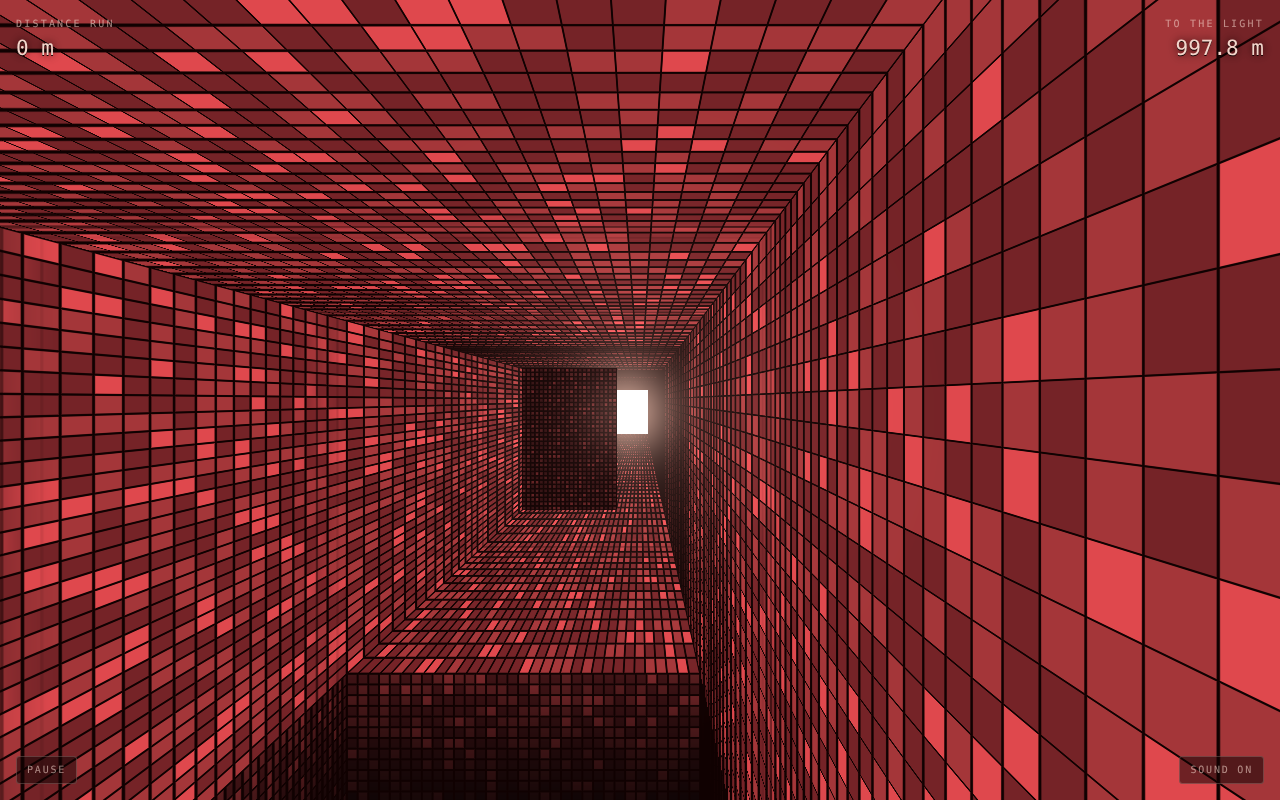
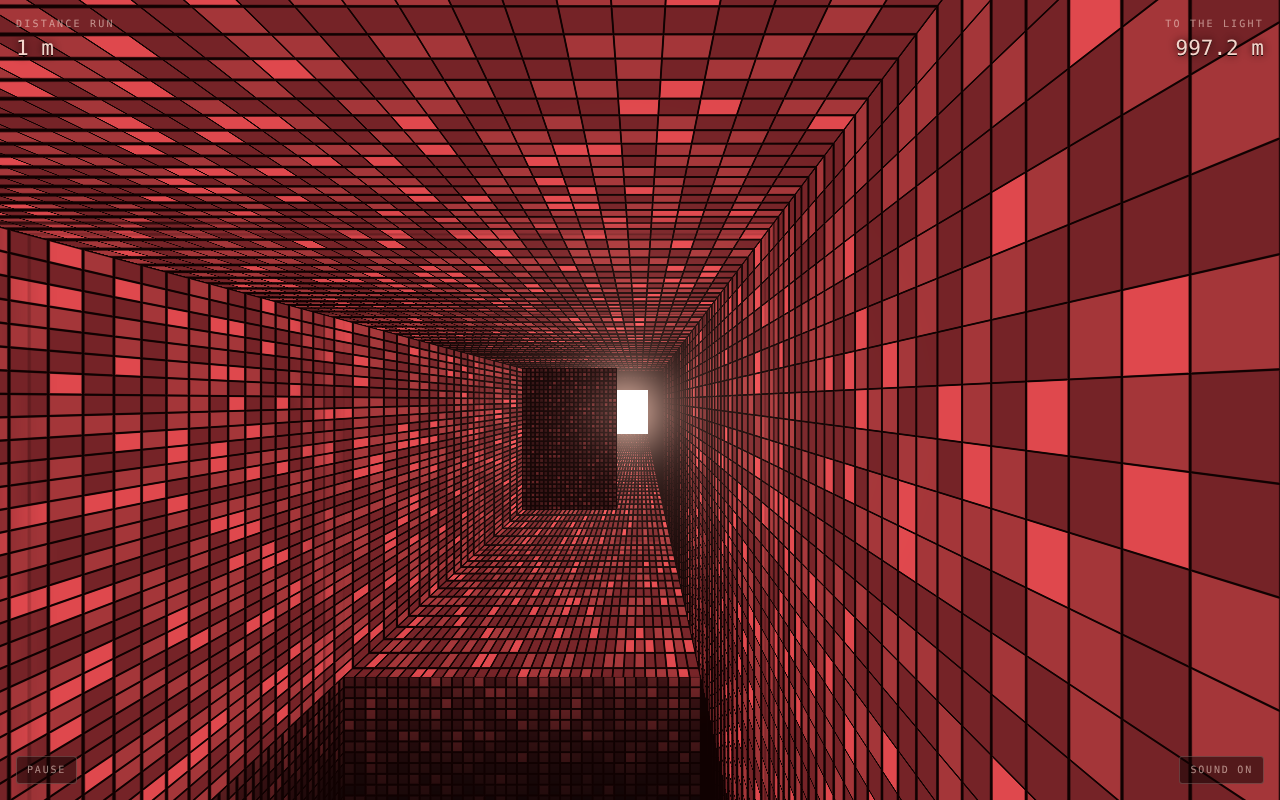
Rename hallway to tunnel and retake screenshots
Claude-Session: https://claude.ai/code/session_01AP4tcmm8V2hMLartLX3Nrv

diff --git a/src/hud.js b/src/hud.js
@@ -30,7 +30,7 @@ export function createHud(store) {
     over: $('over'), overHead: $('over-head'), overDist: $('over-dist'), overLight: $('over-light'), overBest: $('over-best'),
     paused: $('paused'), pauseBtn: $('pause'), snd: $('snd'), error: $('error'), errorMsg: $('error-msg'),
   };
-  let best = Number(store.get('nh-best')) || 0;
+  let best = Number(store.get('nt-best')) || 0;
   let milestone = 0;
   let timer = 0;
   let last = '';
@@ -73,7 +73,7 @@ export function createHud(store) {
     die() { el.pauseBtn.hidden = true; },
     over(kind, m) {
       const isBest = m > best;
-      if (isBest) { best = m; store.set('nh-best', String(Math.floor(m))); }
+      if (isBest) { best = m; store.set('nt-best', String(Math.floor(m))); }
       el.overHead.textContent = DEATH[kind] || 'you stopped';
       el.overDist.textContent = `${fmtM(m)} m`;
       el.overLight.textContent = `The light is still ${fmtLight(lightLeft(m))} m away.`;

diff --git a/src/gpu.js b/src/gpu.js
@@ -1,5 +1,5 @@
-// WebGPU setup: one full-screen triangle running src/shaders/hallway.wgsl.
-import shaderCode from './shaders/hallway.wgsl?raw';
+// WebGPU setup: one full-screen triangle running src/shaders/tunnel.wgsl.
+import shaderCode from './shaders/tunnel.wgsl?raw';
 
 // Matches struct Uniforms in the shader: 4 vec4 header + 8 pits + 16 + 16 boxes.
 export const UNIFORM_FLOATS = (4 + 8 + 16 + 16) * 4;
@@ -21,7 +21,7 @@ export async function createRenderer(canvas) {
   const module = device.createShaderModule({ code: shaderCode });
   const info = await module.getCompilationInfo();
   const errors = info.messages.filter(m => m.type === 'error');
-  if (errors.length) throw new Error(errors.map(m => `hallway.wgsl:${m.lineNum}: ${m.message}`).join('\n'));
+  if (errors.length) throw new Error(errors.map(m => `tunnel.wgsl:${m.lineNum}: ${m.message}`).join('\n'));
 
   const pipeline = device.createRenderPipeline({
     layout: 'auto',

diff --git a/index.html b/index.html
@@ -3,10 +3,10 @@
 <head>
 <meta charset="utf-8">
 <meta name="viewport" content="width=device-width, initial-scale=1, viewport-fit=cover">
-<title>Neverending Hallway</title>
+<title>Neverending Tunnel</title>
 </head>
 <body>
-<canvas id="hall" role="img" aria-label="First-person view down an endless square hallway lined with red tiles, with a light at the far end"></canvas>
+<canvas id="tunnel" role="img" aria-label="First-person view down an endless square tunnel lined with red tiles, with a light at the far end"></canvas>
 
 <div class="hud" id="hud" hidden>
   <div class="stat">
@@ -22,7 +22,7 @@
 <p class="whisper" id="whisper" aria-live="polite"></p>
 
 <section class="panel" id="title">
-  <h1>Neverending Hallway</h1>
+  <h1>Neverending Tunnel</h1>
   <p class="lede">There is a light at the end. Run to it.</p>
   <dl class="keys kb-only">
     <dt><kbd>Space</kbd> <kbd>↑</kbd></dt><dd>jump pits and low walls</dd>

diff --git a/src/sound.js b/src/sound.js
@@ -1,4 +1,4 @@
-// Synthesized sound: a low drone for the hallway and short effects.
+// Synthesized sound: a low drone for the tunnel and short effects.
 // Audio starts on the first key press or tap.
 const store = {
   get(k) { try { return localStorage.getItem(k); } catch { return null; } },
@@ -7,7 +7,7 @@ const store = {
 
 export const Sound = {
   ac: null, out: null, noise: null, droneF: null,
-  muted: store.get('nh-muted') === '1',
+  muted: store.get('nt-muted') === '1',
 
   init() {
     if (this.ac) { if (this.ac.state === 'suspended') this.ac.resume(); return; }
@@ -34,7 +34,7 @@ export const Sound = {
 
   setMuted(m) {
     this.muted = m;
-    store.set('nh-muted', m ? '1' : '0');
+    store.set('nt-muted', m ? '1' : '0');
     if (this.out) this.out.gain.setTargetAtTime(m ? 0 : 0.6, this.ac.currentTime, 0.05);
   },
 

diff --git a/src/styles.css b/src/styles.css
@@ -1,5 +1,5 @@
 :root {
-  /* Hallway palette from the original asset. */
+  /* Tunnel palette from the original asset. */
   --grout: #100101;
   --tile-dark: #752327;
   --tile-mid: #a43639;
@@ -25,7 +25,7 @@ body {
   user-select: none;
   -webkit-tap-highlight-color: transparent;
 }
-#hall { position: fixed; inset: 0; width: 100%; height: 100%; display: block; }
+#tunnel { position: fixed; inset: 0; width: 100%; height: 100%; display: block; }
 
 .hud {
   position: fixed;

diff --git a/src/main.js b/src/main.js
@@ -86,7 +86,7 @@ function pack(data, view, t) {
 }
 
 async function boot() {
-  const canvas = document.getElementById('hall');
+  const canvas = document.getElementById('tunnel');
   let renderer;
   try {
     renderer = await createRenderer(canvas);
@@ -111,4 +111,4 @@ async function boot() {
 boot();
 
 // Hook for automated checks.
-window.__hallway = game;
+window.__tunnel = game;

diff --git a/src/game.js b/src/game.js
@@ -1,5 +1,5 @@
 // Game state: running, jumping, sliding, lanes, obstacles and collisions.
-// Positions are in tunnel half-widths; s is distance down the hallway.
+// Positions are in tunnel half-widths; s is distance down the tunnel.
 import {
   RING, LIGHT_D, M_PER_UNIT, LANE_EDGES, LANE_X,
   AIR, GRAV, V0, DUCK, SLIDE_T, WALL_TOP, BEAM_BOTTOM,

diff --git a/src/constants.js b/src/constants.js
@@ -1,4 +1,4 @@
-// Shared numbers. Tile geometry matches the original hallway and src/shaders/hallway.wgsl.
+// Shared numbers. Tile geometry matches the original tunnel and src/shaders/tunnel.wgsl.
 
 export const N = 33;              // tiles per side
 export const RING = 0.056;        // ring depth in tunnel half-widths

diff --git a/README.md b/README.md
@@ -1,13 +1,13 @@
-# Neverending Hallway
+# Neverending Tunnel
 
-A first-person runner through the Neverending Hallway. Run for the light at the
+A first-person runner through the Neverending Tunnel. Run for the light at the
 end of the tunnel. You never reach it.
 
-The hallway is ray traced in a WebGPU fragment shader (`src/shaders/hallway.wgsl`)
+The tunnel is ray traced in a WebGPU fragment shader (`src/shaders/tunnel.wgsl`)
 using the original asset's tile hash, colours, 33-column corner warp, 24-ring
 repeat and 1.7px grout.
 
-![Title screen with the light at the end of the hallway](docs/screenshots/title.png)
+![Title screen with the light at the end of the tunnel](docs/screenshots/title.png)
 
 | | |
 |---|---|
@@ -35,7 +35,7 @@ Needs a browser with WebGPU (current Chrome, Edge or Safari).
 
 ## Layout
 
-- `src/shaders/hallway.wgsl`: tunnel, pits, obstacles and the light
+- `src/shaders/tunnel.wgsl`: tunnel, pits, obstacles and the light
 - `src/gpu.js`: WebGPU device, pipeline and uniform buffer
 - `src/game.js`: running, jumping, sliding, spawning and collisions
 - `src/main.js`: frame loop and uniform packing
